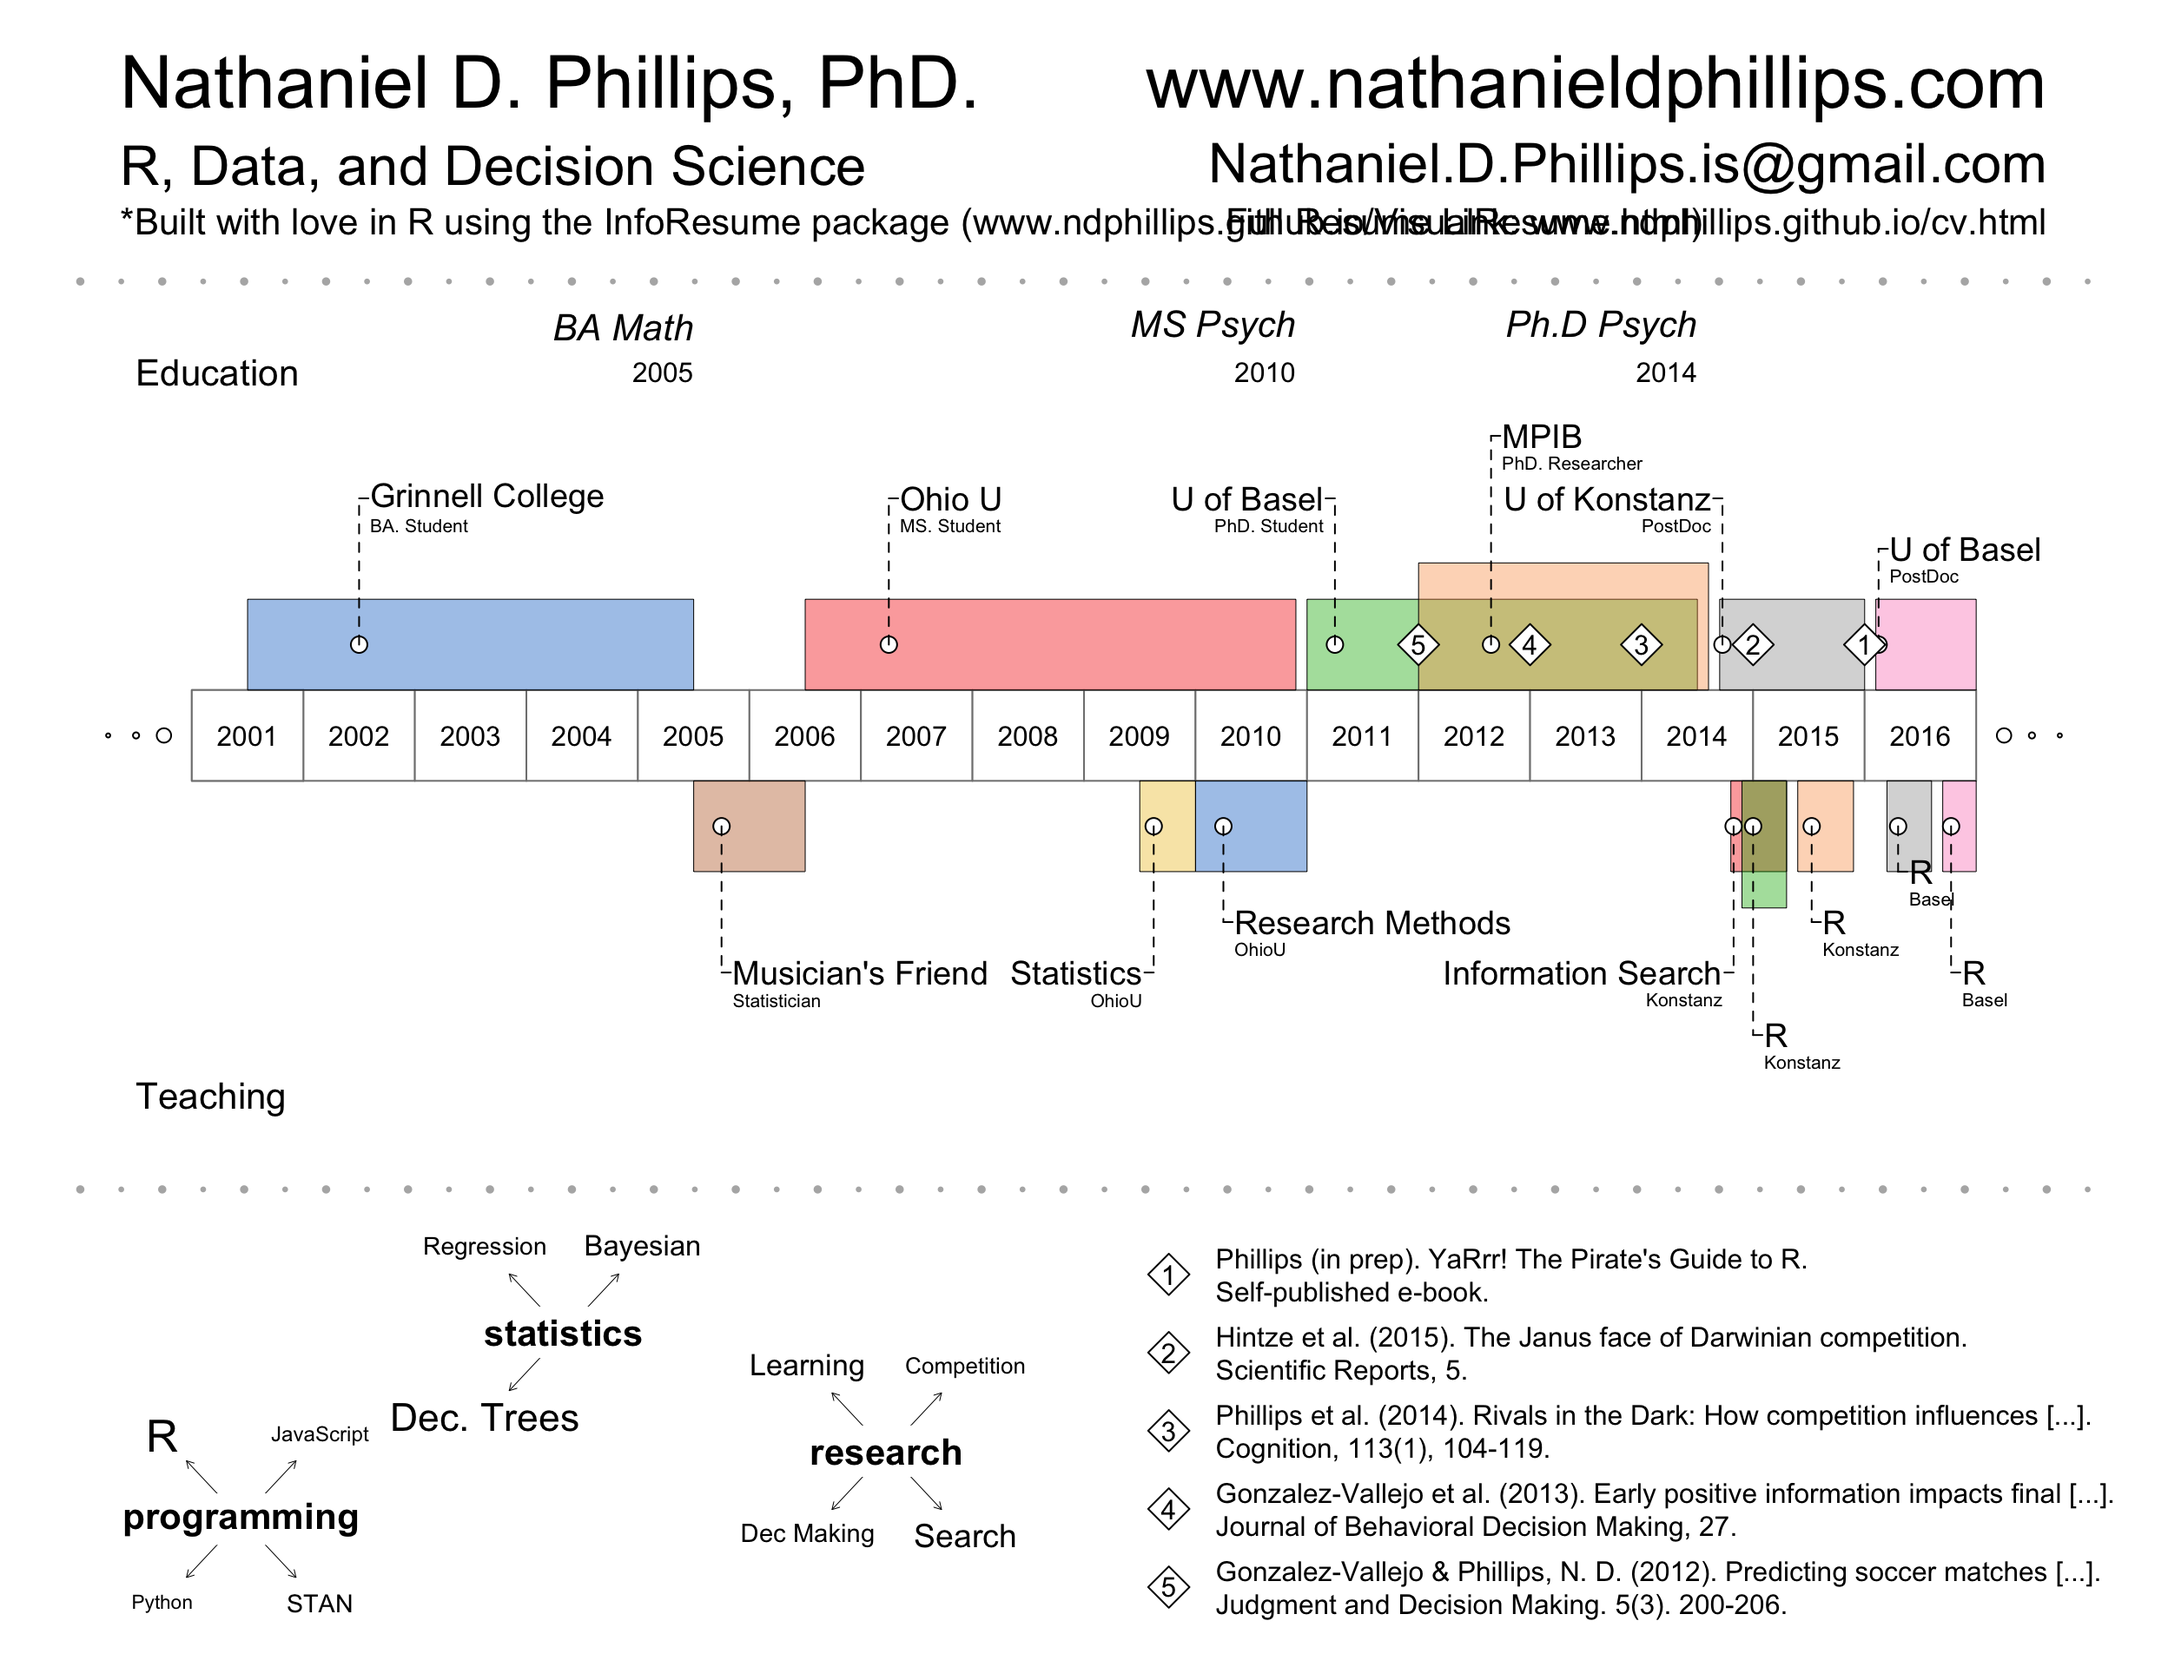
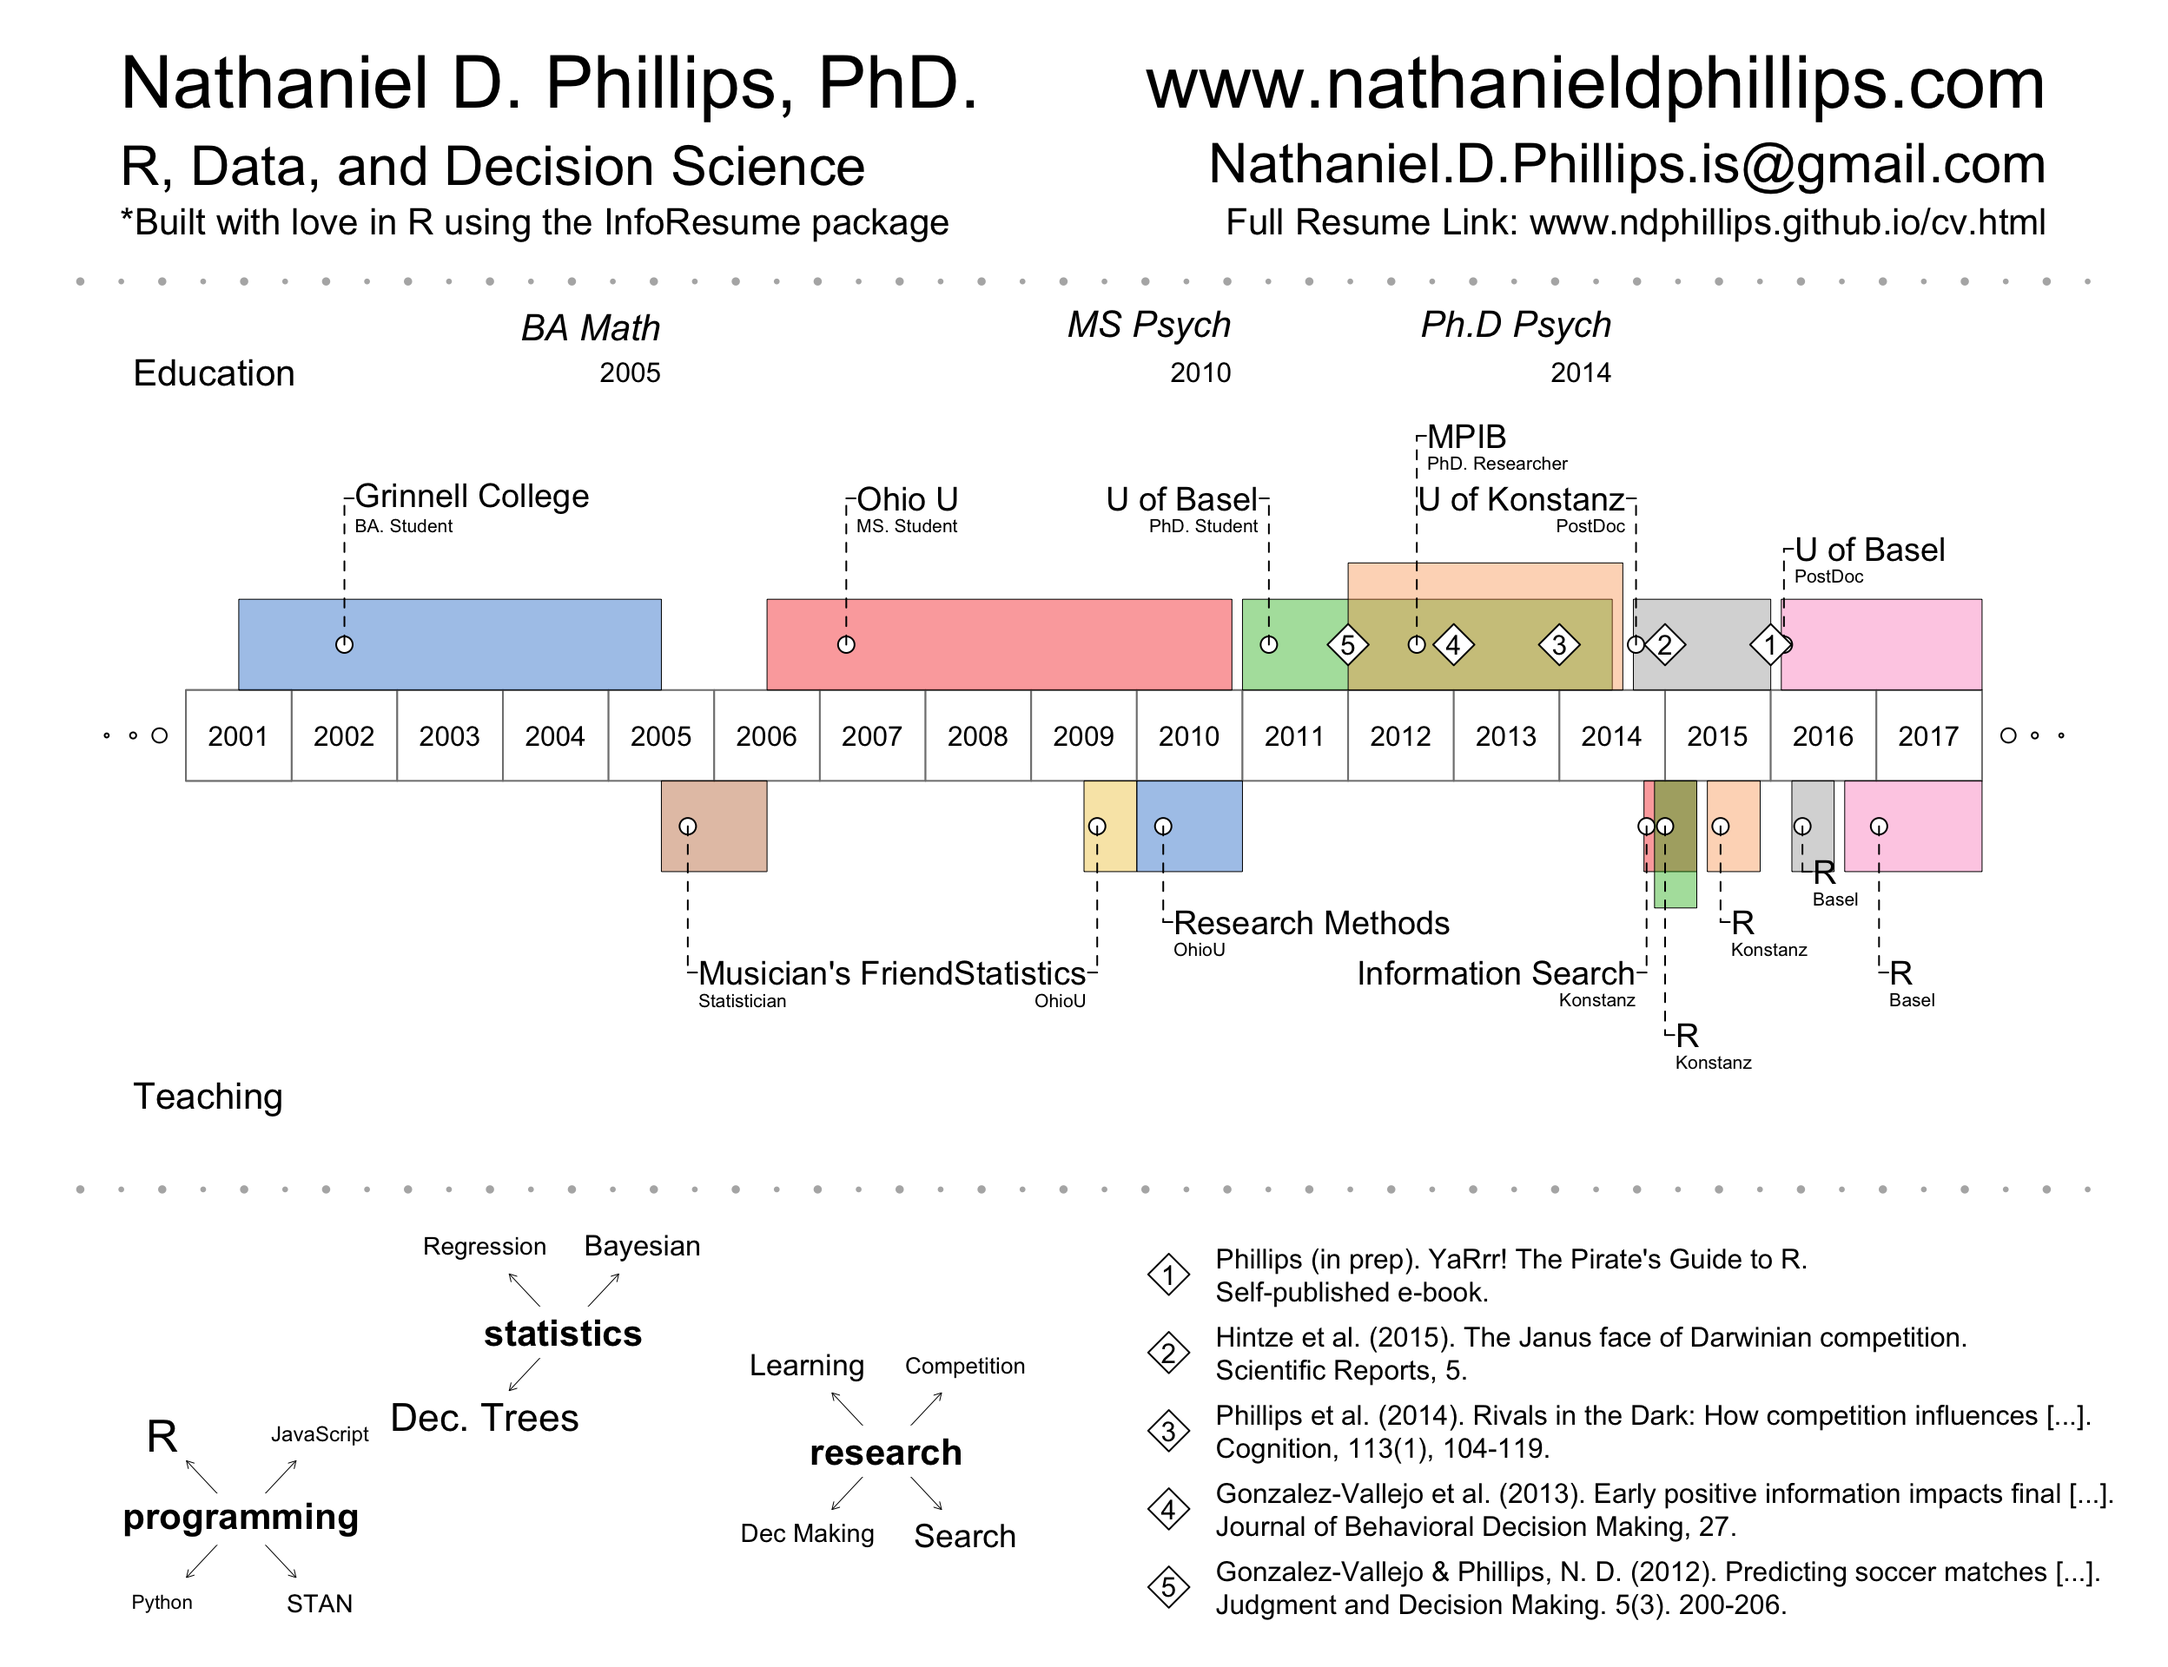
Updates to resume

diff --git a/about.html b/about.html
@@ -329,6 +329,7 @@ $(document).ready(function () {
 <h4>Interviews / Press</h4>
 <ul>
 <li><a href="http://eadm.eu/the-eadm-interview/nathaniel-philips/">The European Association for Decision Making Interview</a></li>
+<li><a href="http://ndphillips.github.io/media/phillipsyarrr2017">YaRrr! The Pirate’s Guide To R, APS Observer</a></li>
 </ul>
 </div>
 <div id="links" class="section level4">
@@ -340,16 +341,16 @@ $(document).ready(function () {
 <p>Here is my visual resume built using my <code>VisualResume</code> R package (see <a href="VisualResume.html">Visual Resume R Package</a>).</p>
 <p><img src="about_files/figure-html/unnamed-chunk-2-1.png" width="1248" /></p>
 </div>
-<div id="download" class="section level1">
-<h1>Download</h1>
+<div id="resume" class="section level1">
+<h1>Resume</h1>
 <p>You can download my resume and CV with the following links:</p>
 <ul>
 <li><a href="resume.pdf#" class="download" title="Download resume as PDF">Download Resume as PDF</a></li>
-<li>CV <strong>coming soon..</strong></li>
 </ul>
 </div>
 <div id="publications-1" class="section level1">
 <h1>Publications</h1>
+<p>Phillips, N. (2017). YaRrr! The pirate’s guide to R. <em>APS Observer, 30.3</em>. <a href="http://ndphillips.github.io/media/phillipsyarrr2017">PDF</a></p>
 <p>Hintze, A., Phillips, N. &amp; Hertwig, R. (2015). The Janus face of Darwinian competition. <em>Scientific Reports, 5. </em><a href="http://ndphillips.github.io/media/hintze2015janus.pdf">PDF</a></p>
 <p>Phillips, N. D.,Hertwig, R., Kareev, Y., &amp; Avrahami, J. (2014). Rivals in the dark: How competition influences search in decisions under uncertainty. <i>Cognition, 133(1), </i>104-119. <a href="http://ndphillips.github.io/media/phillips2014rivals.pdf">PDF</a></p>
 <p>González Vallejo, C., Cheng, J., Phillips, N. D., Chimeli, J., Bellezza, F., Harman, J., &amp; Lindberg, M. J. (2013). Early Positive Information Impacts Final Evaluations: No Deliberation‐Without‐Attention Effect and a Test of a Dynamic Judgment Model. <i>Journal of Behavioral Decision Making, 27(3)</i>, 209-225. <a href="http://ndphillips.github.io/media/gonzalez2013early.pdf">PDF</a></p>
@@ -361,9 +362,10 @@ $(document).ready(function () {
 <p>Phillips, N. (in prep). R: The solution to (almost) all of your life’s problems. Congress for psychology students (psyKo). Schuepfheim, Switzerland.</p>
 <p>Phillips, N. (2016). Creating R packages for research documentation. Early career judgment and decision making workshop, Basel, Switzerland. <a href="http://www.rpubs.com/ndphillips/rpackagescience">Link</a></p>
 </div>
-<div id="presentations-1" class="section level1">
-<h1>Presentations</h1>
-<p>Phillips, N., Neth, H. &amp; Gaissmaeier, W. (2016). FFTrees: An R package to create and visualise fast and frugal decision trees. Annual meeting of the society for Judgment and Decision Making, Boston, MA. <a href="http://ndphillips.github.io/media/phillips2016BostonFFTrees.pdf">PDF</a></p>
+<div id="recent-presentations" class="section level1">
+<h1>Recent Presentations</h1>
+<p>Phillips, N., Neth, H,. Woike, J., &amp; Gaissmaeier, W. (2017). FFTrees: An R package to create and visualise fast and frugal decision trees. BaselR, Basel, Switzerland <a href="http://ndphillips.github.io/BaselR">PDF</a></p>
+<p>Phillips, N., Neth, H,. Woike, J., &amp; Gaissmaeier, W. (2016). FFTrees: An R package to create and visualise fast and frugal decision trees. Annual meeting of the society for Judgment and Decision Making, Boston, MA. <a href="http://ndphillips.github.io/media/phillips2016BostonFFTrees.pdf">PDF</a></p>
 <p>Phillips, N., Neth, H., Gaissmaeier, W., Navarro, D., Newell, B. &amp; Rieskamp, J. (2016). Peeks and Keeps: Optional risk reinforcement learning. Annual meeting for the Deutschen Gesellschaft fuer Psychologie. Leipzig, Germany. <a href="http://ndphillips.github.io/media/phillips2016Leipzigpak.pdf">PDF</a></p>
 <p>Phillips, N., Neth, H., Gaissmaeier, W., Navarro, D., Newell, B. &amp; Rieskamp, J. (2016). Peeks and Keeps: Optional risk decisions from experience. Annual meeting for the Society for Mathematical Psychology, New Brunswick, NJ.</p>
 </div>
